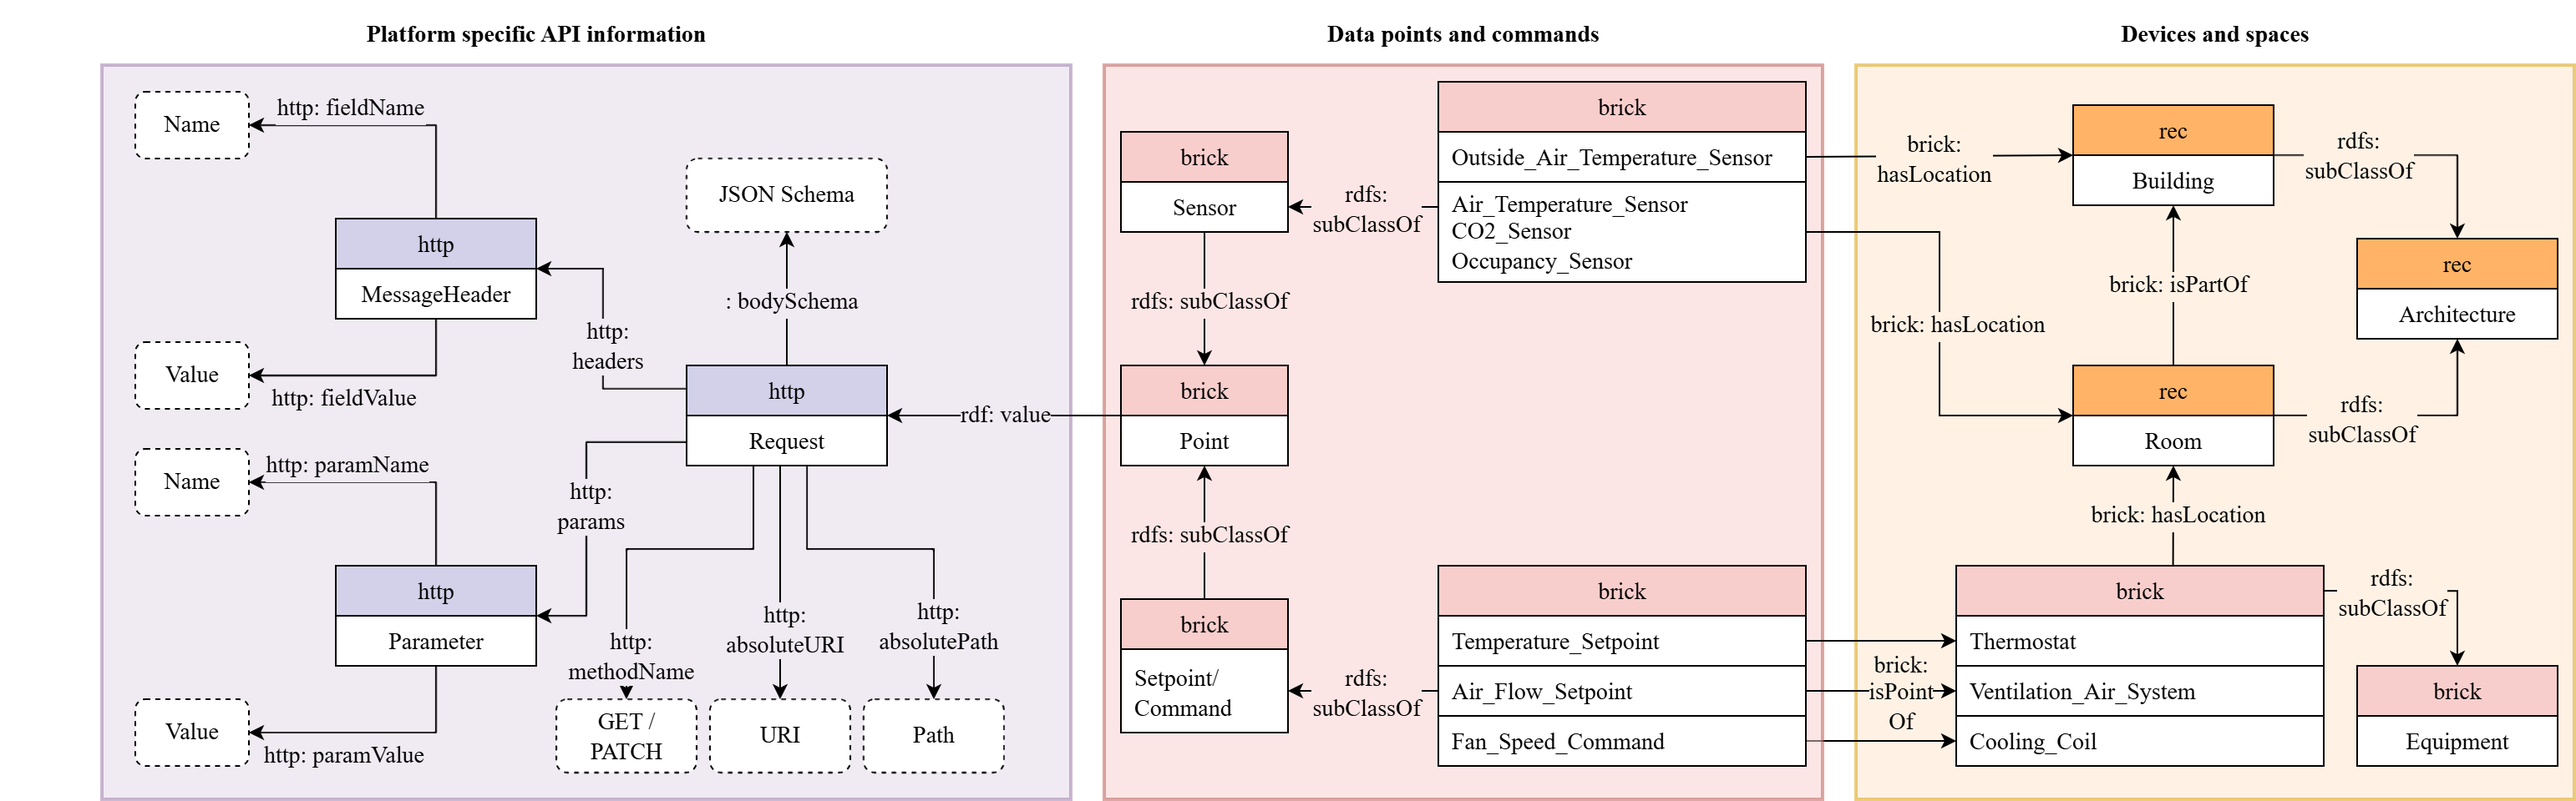
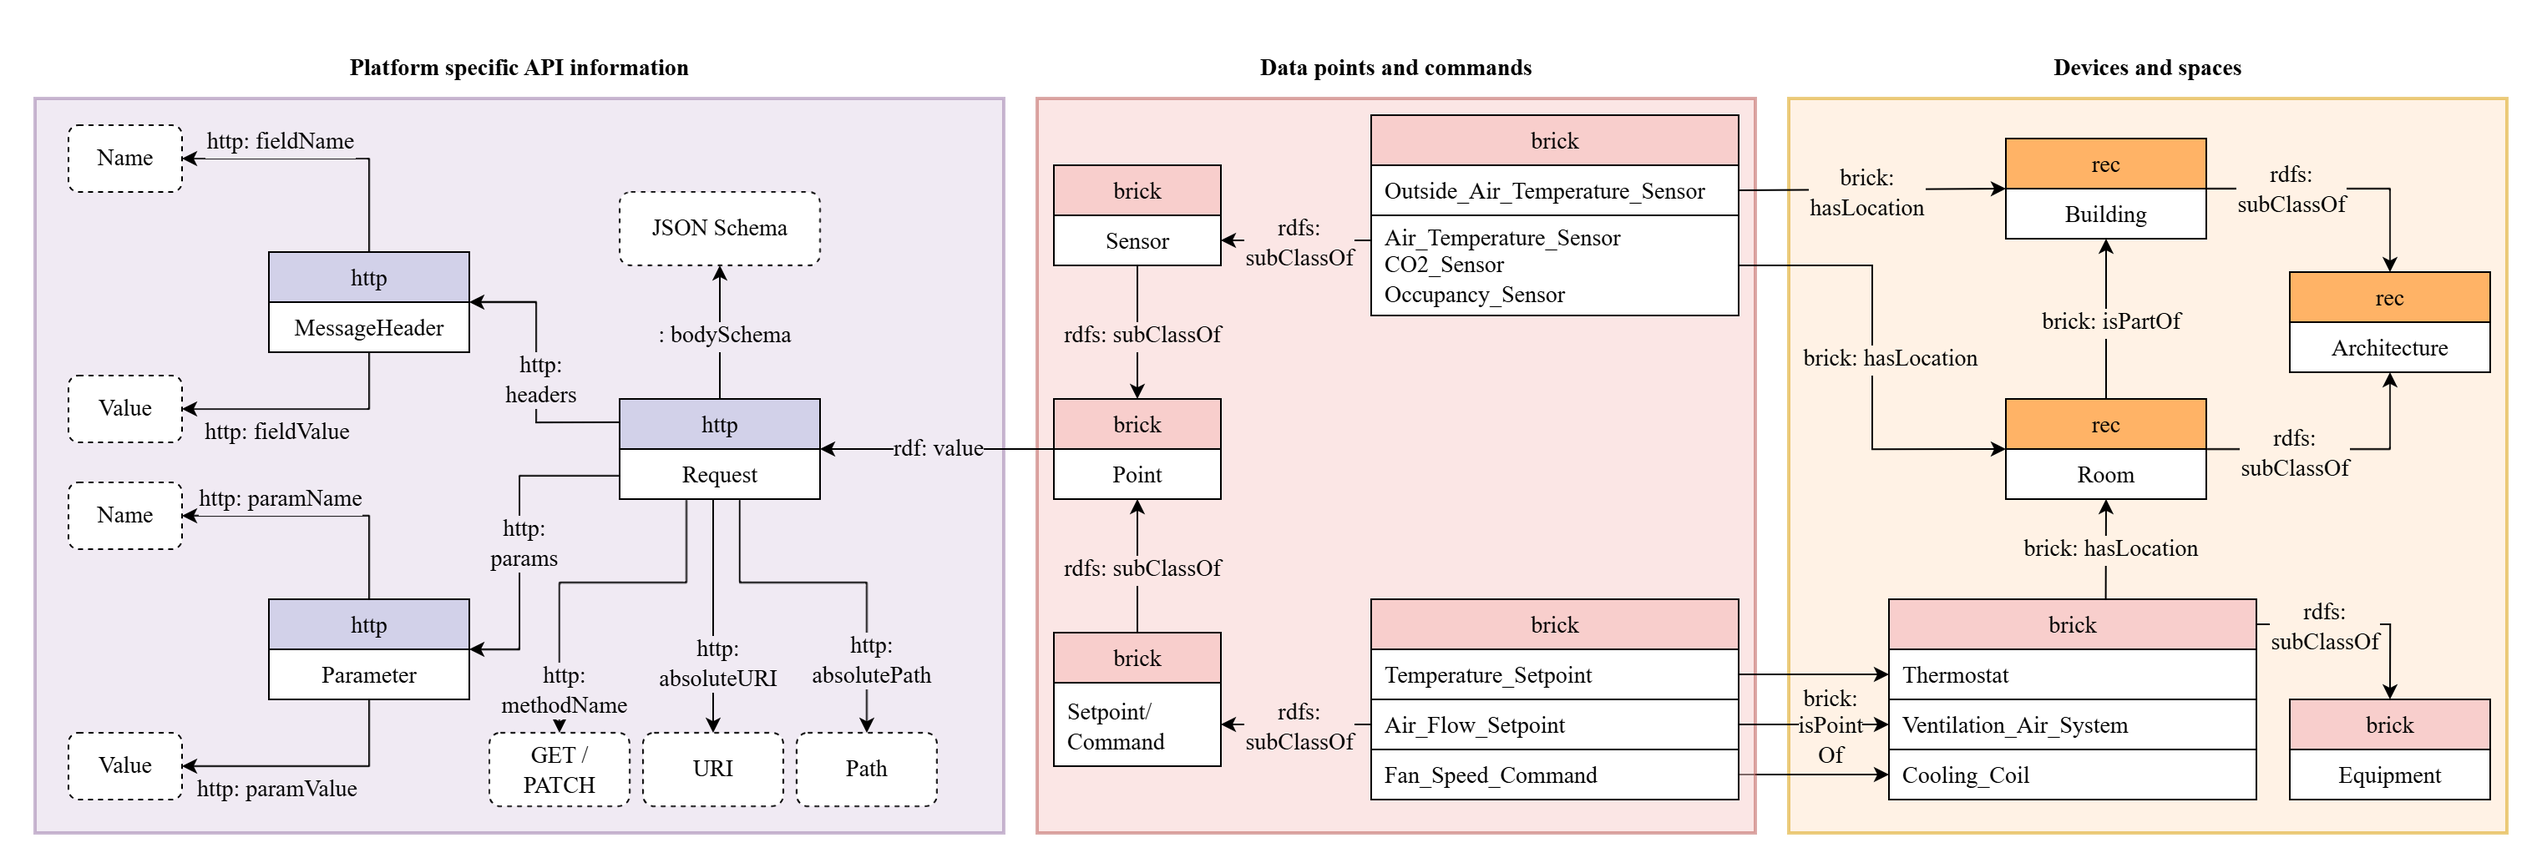
Add Tbox description

diff --git a/paper/paper.tex b/paper/paper.tex
@@ -335,13 +335,34 @@ This paper reuses the KGCP for the two target platforms, FIWARE and ioBroker.
 
 Besides the existing functions, we further extend the KGCP with a post-processing module to add information about the platform-specific API syntax to the generated KGs by traversing all endpoints nodes and matching them with the corresponding API syntax in the platform specification (swagger or OpenAPI document).
 
-% TODO introduce the T-box for this use case
+KGs of both platforms are mapped onto the common T-box shown in Figure~\ref{fig:t-box-building-http}, which fixes the vocabulary that the retrieval stage.
+It is organised in three blocks, covering devices and spaces, data points and commands, and platform-specific API information.
+For the first two blocks, the classes and relations are drawn from Brick \citep{balaji2018brick} and RealEstateCore \citep{hammar2019realestatecore}, which are widely used in building automation domain.
+For the third block, the W3C HTTP vocabulary is used to describe the platform-specific API syntax, while the vocabulary is extended with further schema information to describe the structure of the request or response body.
+
 \begin{figure*}
     \centering
     \includegraphics[width=\textwidth]{img/method/T-box-building-http}
-    \caption{TODO}
+    \caption{Common T-box of the generated knowledge graphs, covering devices and spaces, data points and commands, and platform-specific API information. Dashed boxes denote literal values}
     \label{fig:t-box-building-http}
 \end{figure*}
+
+%Spaces are described with RealEstateCore \citep{hammar2019realestatecore}, where \texttt{rec:Building} and \texttt{rec:Room} are subclasses of \texttt{rec:Architecture} and a room is linked to its building by \texttt{brick:isPartOf}.
+%Devices are described with Brick \citep{balaji2018brick} as subclasses of \texttt{brick:Equipment}, here \texttt{brick:Thermostat}, \texttt{brick:Ventilation\_Air\_System}, and \texttt{brick:Cooling\_Coil}, and each device is assigned to the space it serves by \texttt{brick:hasLocation}.
+%
+%The second block types the data that a platform exposes.
+%\texttt{brick:Sensor} and the setpoint and command classes are subclasses of \texttt{brick:Point}, which separates readable observations from writable control interfaces.
+%The sensor classes relevant to demand-based HVAC control, \texttt{brick:Air\_Temperature\_Sensor}, \texttt{brick:CO2\_Sensor}, and \texttt{brick:Occupancy\_Sensor}, are attached to a room by \texttt{brick:hasLocation}, whereas \texttt{brick:Outside\_Air\_Temperature\_Sensor} is attached to the building, because ambient conditions are shared by all rooms of that building.
+%The writable classes \texttt{brick:Temperature\_Setpoint}, \texttt{brick:Air\_Flow\_Setpoint}, and \texttt{brick:Fan\_Speed\_Command} are bound by \texttt{brick:isPointOf} to the device that exposes them.
+%The sensor availability and the actuation capability of a space are therefore both readable from this block alone, which is what the selection of a control strategy requires.
+%
+%The third block carries the platform-specific interface syntax that the post-processing module adds, expressed with the W3C HTTP vocabulary in RDF.
+%Every point is connected by \texttt{rdf:value} to one or more \texttt{http:Request} individuals, so that the semantic description of a point and the operations that read or write it are reachable in a single hop.
+%A request carries its \texttt{http:methodName}, which is \texttt{GET} for reading a point and \texttt{PATCH} for writing it, together with its \texttt{http:absoluteURI} and \texttt{http:absolutePath}, its query parameters as \texttt{http:Parameter} individuals with \texttt{http:paramName} and \texttt{http:paramValue}, and its headers as \texttt{http:MessageHeader} individuals with \texttt{http:fieldName} and \texttt{http:fieldValue}.
+%Requests that carry a payload additionally reference the JSON Schema of their body, so that the generated configuration can be checked against the interface before it is executed.
+
+This three-block structure keeps the platform-independent part of a deployment decision separate from the platform-specific one.
+The first two blocks state which space contains which device and which quantity each point carries, and they are identical for FIWARE and ioBroker; the third block states how a point is actually read or written, and it is where the two platforms differ.
 
 \subsection{Validation enhanced information retrieval}
 % TODO introduce the validation and information retrieval prompt
